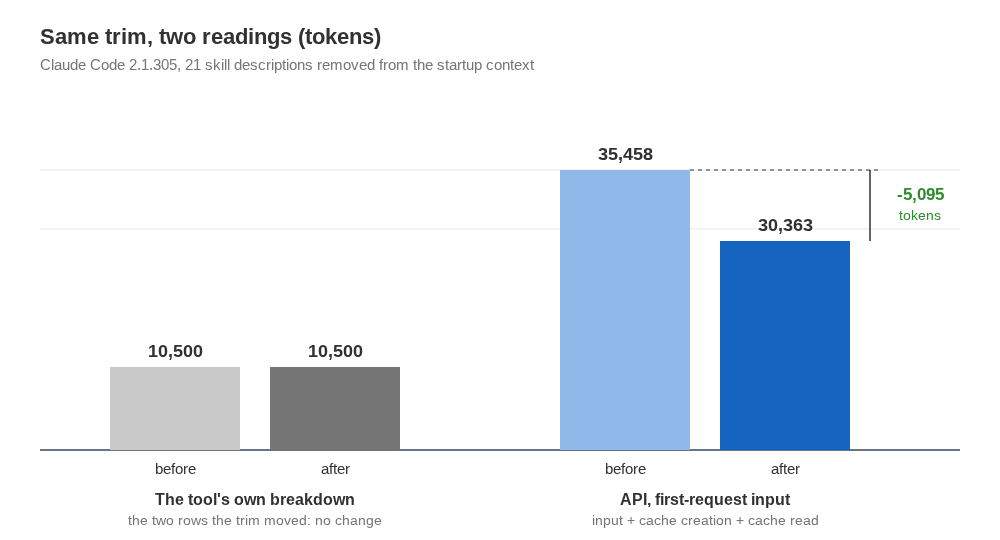
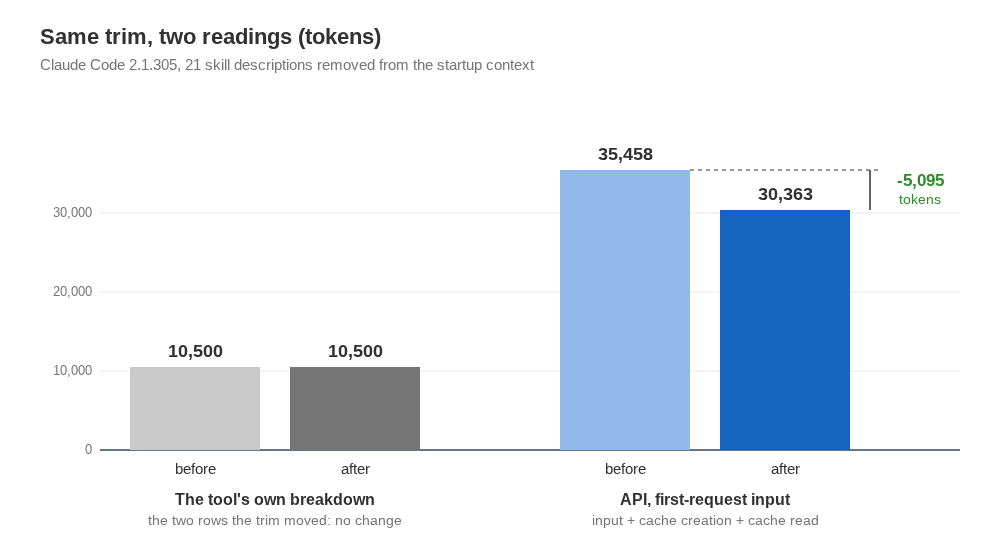
post: redraw the figure at one scale, say why two rows, split the caveat (review on ed4b885)
figure.svg: the API "after" bar (30,363) was 209 px tall where the figure's own
scale (280 px = 35,458 tokens) gives 240 px, so a 14% saving looked like 25%.
All four bars now share that scale (0.0079 px/token, baseline y=450); the two
unlabelled gridlines are replaced by a labelled axis at 0, 10,000, 20,000 and
30,000; the -5,095 bracket runs the real 40 px. figure.png re-rendered with the
design skill's render-svg.sh.

index.md: section 1 says why the figure shows the two moved rows and not the
breakdown's total (the after reading had no connected servers, so its total is
not comparable); the caveat in section 3 is four sentences instead of one.
Body: 698 words.

diff --git a/content/post/2026-10-25-measure-prompt-size-at-the-api/index.md b/content/post/2026-10-25-measure-prompt-size-at-the-api/index.md
@@ -18,7 +18,7 @@ Claude Code is Anthropic's coding agent: a program you run from a terminal that 
 
 ## A breakdown says where to cut, not whether the cut worked
 
-The tool has a `/context` command that prints how much of the prompt each contributor takes, system prompt, tools, connected servers, instruction files, the skills listing, with a total; [the costs page](https://code.claude.com/docs/en/costs) points to it when you want to see what takes the space. A breakdown like that answers one question well, where to cut, and the next one badly, whether the cut worked. Its rows are headings somebody chose, and a change that moves an item from one heading to another leaves their sum where it was. My trim did exactly that: 21 skill descriptions left the startup context (the skills stay listed and callable, only the description goes), and in that version of the tool a skill without its description is counted under system tools instead of under skills, so by my own readings the two rows went from 7.4k and 3.1k to 2.7k and 7.8k, the same 10.5k before and after. The figure shows the one change read both ways.
+The tool has a `/context` command that prints how much of the prompt each contributor takes, system prompt, tools, connected servers, instruction files, the skills listing, with a total; [the costs page](https://code.claude.com/docs/en/costs) points to it when you want to see what takes the space. A breakdown like that answers one question well, where to cut, and the next one badly, whether the cut worked. Its rows are headings somebody chose, and a change that moves an item from one heading to another leaves their sum where it was. My trim did exactly that: 21 skill descriptions left the startup context (the skills stay listed and callable, only the description goes), and in that version of the tool a skill without its description is counted under system tools instead of under skills, so by my own readings the two rows went from 7.4k and 3.1k to 2.7k and 7.8k, the same 10.5k before and after. The figure shows those two rows, not the breakdown's total: my after reading had no connected servers, so its total is not comparable and the two rows are. Next to them is the same change read at the API.
 
 ![Bar chart in tokens: the tool's skills and system tools rows read 10,500 before and 10,500 after the trim, while the API's first-request input falls from 35,458 to 30,363, which is 5,095 fewer.](figure.png)
 
@@ -28,7 +28,7 @@ The API reports what it was actually sent. For a request, the total input is `in
 
 Anthropic also offers [a token-counting endpoint](https://docs.anthropic.com/en/docs/build-with-claude/token-counting), but its page calls the result an estimate that may differ slightly from the tokens used when the message is created. For a budget I prefer the count from a real request: it is what the request actually carried, and it covers the whole startup context, including the parts you did not write.
 
-The honest caveat is that this clean number lives in the controlled setting: two unattended sessions after the change started with 59,682 and 55,871 tokens against 60,689 before, my own readings again, and the 3.8k between two identical setups is nothing but their different prompts, so in real traffic the saving is real and buried.
+The honest caveat is that this clean number lives in the controlled setting. Two unattended sessions after the change started with 59,682 and 55,871 tokens, against 60,689 before, my own readings again. The two had the same setup; the 3.8k between them is nothing but their different prompts. In real traffic the saving is real and buried.
 
 ## Budget with the usage field of a fixed prompt
 
